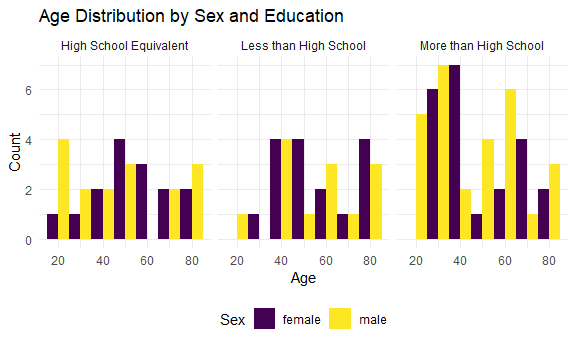
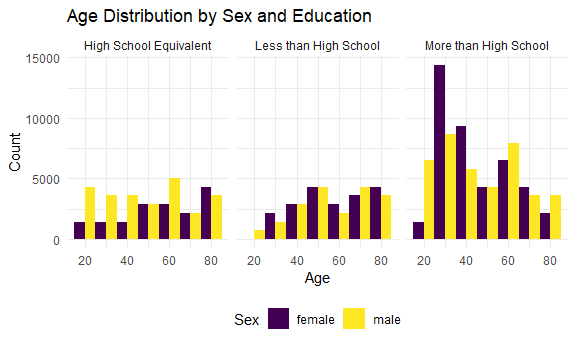
commentary on problem 2

diff --git a/p8105_hw3_csl2209.md b/p8105_hw3_csl2209.md
@@ -240,10 +240,7 @@ tidy_zillow =
     ## ℹ If a many-to-many relationship is expected, set `relationship =
     ##   "many-to-many"` to silence this warning.
 
-There are 116 months between January 2015 and August 2024. How many ZIP
-codes are observed 116 times? How many are observed fewer than 10 times?
-Why are some ZIP codes are observed rarely and others observed in each
-month?
+There are 116 months between January 2015 and August 2024.
 
 ``` r
 zip_count =
@@ -259,6 +256,19 @@ low_count =
   zip_count |>
   filter(n_months < 10)
 ```
+
+- How many ZIP codes are observed 116 times? How many are observed fewer
+  than 10 times?
+
+10 ZIP codes are observed 116 times. 0 ZIP codes are observed fewer than
+10 times
+
+- Why are some ZIP codes are observed rarely and others observed in each
+  month?
+
+The difference comes from how much real estate activity is happening for
+that particular ZIP code. Some ZIP codes have more real estate activity
+than others.
 
 Create a reader-friendly table showing the average rental price in each
 borough and year (not month). Comment on trends in this table.
@@ -286,6 +296,9 @@ tidy_zillow |>
     ## 2 New York  3049.  3092.  3114.  3161.  3251.  3087.  3103.  3709.  3856.  3966.
     ## 3 Queens    2284.  2369.  2399.  2415.  2536.  2519.  2546.  2857.  3052.  3178.
 
+The average rental price in ‘New York’ is consistently greater than the
+average rental price for ‘Kings’ and ‘Queens’ across the years.
+
 Make a plot showing NYC Rental Prices within ZIP codes for all available
 years. Your plot should facilitate comparisons across boroughs. Comment
 on any significant elements of this plot.
@@ -304,7 +317,15 @@ all_years =
   )  +
   scale_x_date(
     date_breaks = "1 year")
+
+all_years
 ```
+
+<img src="p8105_hw3_csl2209_files/figure-gfm/zillow_plot-1.png" width="90%" />
+
+Generally, we see ‘New York’ prices are greater than ‘Queens’ and
+‘Kings’ prices. We see a stead increase in rental price over the years,
+but from 2021-2022, we see a sizable drop in all zip codes.
 
 Compute the average rental price within each ZIP code over each month in
 2023. Make a reader-friendly plot showing the distribution of
@@ -322,7 +343,7 @@ average_price =
   ggplot(aes(x = date, y = avg_zori, group = zip_code, color = county)) +
   geom_line() +
   labs(
-    title = "NYC Rental Prices by Zip Code (2023))",
+    title = "NYC Rental Prices by Zip Code across Boroughs (2023))",
     x = "Month",
     y = "Rental Price",
     color = "Borough"
@@ -334,6 +355,15 @@ average_price =
 
     ## `summarise()` has grouped output by 'zip_code', 'county'. You can override
     ## using the `.groups` argument.
+
+``` r
+average_price
+```
+
+<img src="p8105_hw3_csl2209_files/figure-gfm/unnamed-chunk-8-1.png" width="90%" />
+
+We see that the average rental price stays steady throughout all
+boroughs, with a minor increase around August in 2023.
 
 Combine the two previous plots into a single graphic, and export this to
 a results folder in your repository.
@@ -358,7 +388,17 @@ Load, tidy, merge, and otherwise organize the data sets.
 ``` r
 accel = read_csv("data/nhanes_accel.csv", na = c("NA", ".", "")) |>
   janitor::clean_names() |>
-  drop_na() # exclude missing
+  drop_na() |>
+  pivot_longer(
+    cols = starts_with("min"),
+    names_to = "minute",
+    names_prefix = "minute_",
+    values_to = "MIMS"
+  ) |>
+  mutate(
+    minute = as.integer(minute),   # numeric minute
+    MIMS = as.numeric(MIMS)        # numeric activity values
+  )
 ```
 
     ## Rows: 250 Columns: 1441
@@ -368,6 +408,11 @@ accel = read_csv("data/nhanes_accel.csv", na = c("NA", ".", "")) |>
     ## 
     ## ℹ Use `spec()` to retrieve the full column specification for this data.
     ## ℹ Specify the column types or set `show_col_types = FALSE` to quiet this message.
+
+    ## Warning: There was 1 warning in `mutate()`.
+    ## ℹ In argument: `minute = as.integer(minute)`.
+    ## Caused by warning:
+    ## ! NAs introduced by coercion
 
 ``` r
 covar = read_csv("data/nhanes_covar.csv", na = c("NA", ".", ""), skip = 4) |>
@@ -413,9 +458,13 @@ for men and women in each education category. Comment on these items.
 ``` r
 accel_combined |>
   filter(sex == c("male", "female")) |>
-  group_by(education, sex) |>
-  summarize(count = n()) |>
-  pivot_wider(names_from = sex, values_from = count)
+  group_by(
+    education, sex) |>
+  summarize(
+    count = n()) |>
+  pivot_wider(
+    names_from = sex, 
+    values_from = count)
 ```
 
     ## `summarise()` has grouped output by 'education'. You can override using the
@@ -425,15 +474,16 @@ accel_combined |>
     ## # Groups:   education [3]
     ##   education              female  male
     ##   <chr>                   <int> <int>
-    ## 1 High School Equivalent     15    16
-    ## 2 Less than High School      16    13
-    ## 3 More than High School      22    28
+    ## 1 High School Equivalent  16560 25200
+    ## 2 Less than High School   20160 19440
+    ## 3 More than High School   42480 40320
 
 ``` r
 accel_combined |>
   filter(sex == c("male", "female")) |>
   ggplot(aes(x = age, fill = sex)) +
-  geom_histogram(position = "dodge", binwidth = 10, alpha = 1) +
+  geom_histogram(
+    position = "dodge", binwidth = 10, alpha = 1) +
   facet_wrap(~education) +
   labs(
     title = "Age Distribution by Sex and Education",
@@ -450,6 +500,29 @@ create a total activity variable for each participant. Plot these total
 activities (y-axis) against age (x-axis); your plot should compare men
 to women and have separate panels for each education level. Include a
 trend line or a smooth to illustrate differences. Comment on your plot.
+
+``` r
+accel_combined |>
+  group_by(seqn, sex, age, education) |>
+  summarize(
+    total_mims = sum(MIMS)) |>
+  ggplot(aes(x = age, y = total_mims, color = sex)) +
+  geom_point(alpha = 0.6) +
+  geom_smooth(method = "loess", se = FALSE) +   
+  facet_wrap(~education) +                      
+  labs(
+    title = "Total Daily Activity vs Age by Sex and Education",
+    x = "Age (years)",
+    y = "Total Daily Activity (MIMS)",
+    color = "Sex"
+  )
+```
+
+    ## `summarise()` has grouped output by 'seqn', 'sex', 'age'. You can override
+    ## using the `.groups` argument.
+    ## `geom_smooth()` using formula = 'y ~ x'
+
+<img src="p8105_hw3_csl2209_files/figure-gfm/unnamed-chunk-11-1.png" width="90%" />
 
 Accelerometer data allows the inspection activity over the course of the
 day. Make a three-panel plot that shows the 24-hour activity time
